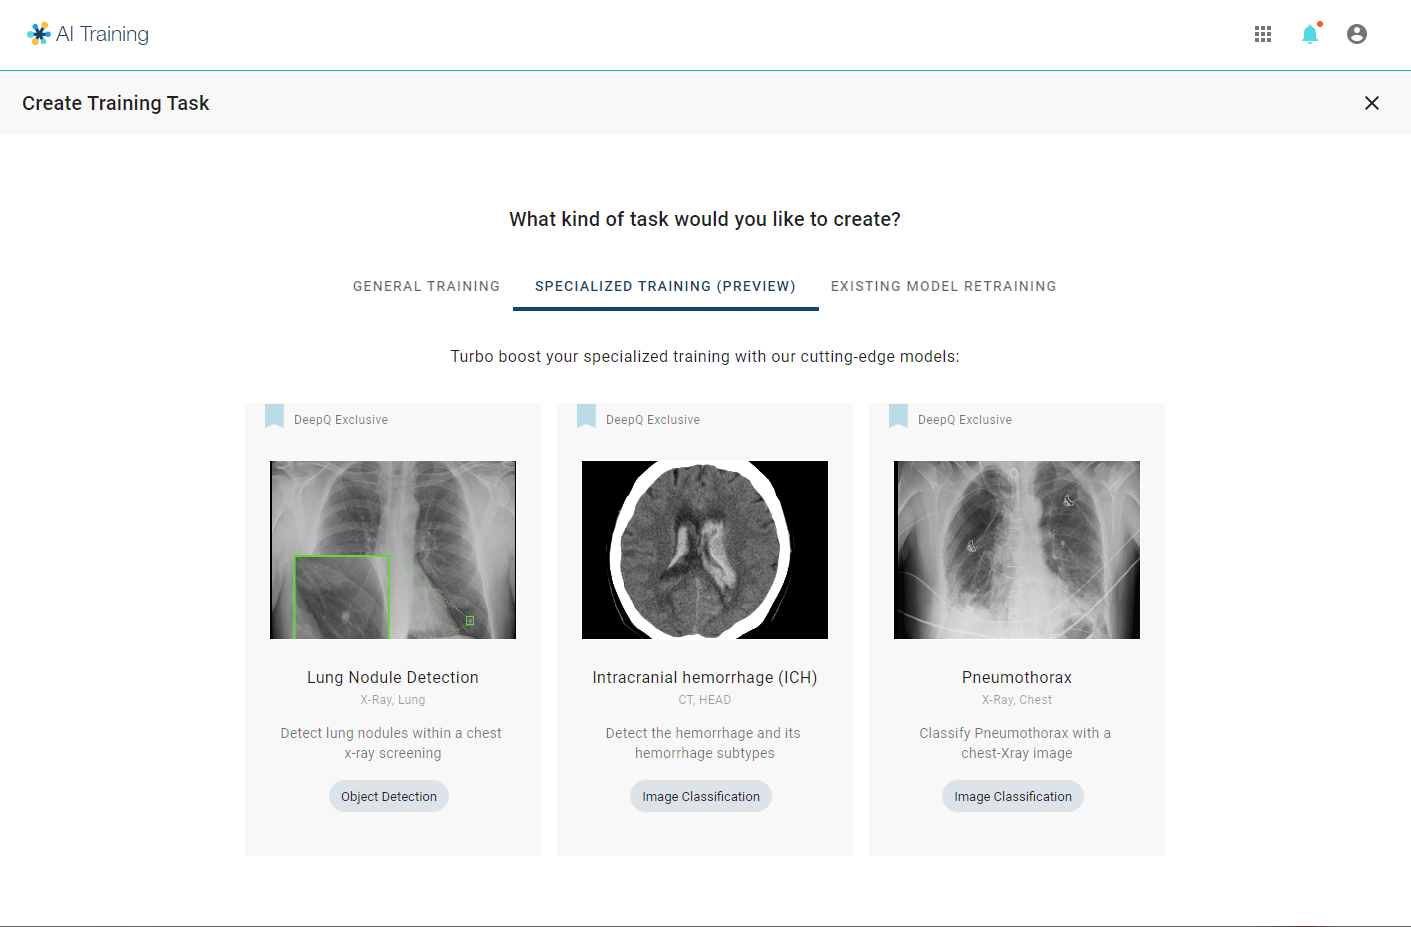
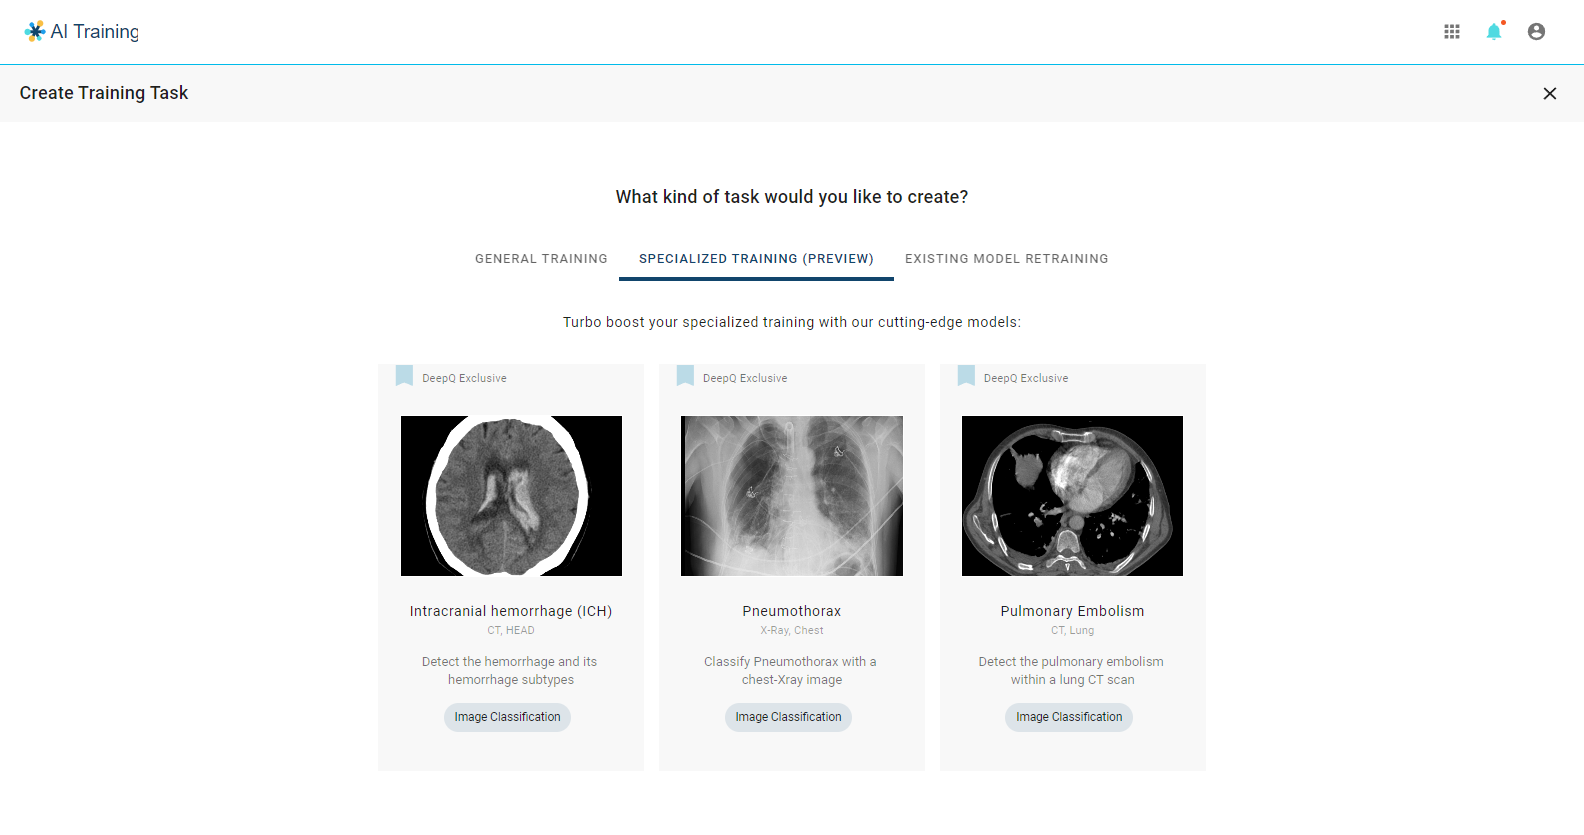
GITBOOK-30: change request with no subject merged in GitBook

diff --git a/account-management/create-training-tasks/README.md b/account-management/create-training-tasks/README.md
@@ -3,7 +3,7 @@
 Clicking on the "**CREATE NEW TASK**" tab leads you to selecting one of the training task flows:
 
 1. **General Training**：To train an AI model of any topic based on the user's choice
-2. **Specialized training**：To train an AI for a specific topic using the presets on DeepQ AI Platform
+2. **Specialized training**：To train an AI for a specific topic using the presets and will only need a few quality data (\~100 cases) to obtain good training results.&#x20;
 3. **Existing Model Retraining**：Using the user's previously trained AI model as a starting point to start a new training task.
 
 <mark style="color:yellow;">Tutorial Video:</mark><img src="../../.gitbook/assets/video-icon-small.jpg" alt="" data-size="line"> [#video-create-training-task](../../tutorial-videos/model-training-inference.md#video-create-training-task "mention")
@@ -24,9 +24,15 @@ The first step of general training is to select the task type: image classificat
 
 ### Specialized Training
 
-With specialzed training, the user may choose from various topics that has been prepared by DeepQ
+With specialzed training, the user may choose from the tasks that has been prepared by DeepQ
 
 <figure><img src="../../.gitbook/assets/con-4-1-2-2.3.png" alt=""><figcaption></figcaption></figure>
+
+|                             | Task type                       | Image format              | Classes                                                                                                                                          |
+| --------------------------- | ------------------------------- | ------------------------- | ------------------------------------------------------------------------------------------------------------------------------------------------ |
+| **Intracranial Hemmorhage** | Multi-Label Classification (5)  | Head CT , non-contrast    | <p>>Subarachnoid hemorrhage  >Subdural hemorrhage <br>>Epidural hemorrhage <br>>Intraparenchymal hemorrhage <br>>Intraventricular hemorrhage</p> |
+| **Pneumothorax**            | Single Label Classification (2) | Chest X-ray               | <p>>PTX<br>>normal</p>                                                                                                                           |
+| **Pulmonary Embolism**      | Single Label Classification (2) | Chest CT with contrast IV | <p>>PE<br>>normal</p>                                                                                                                            |
 
 ### Existing Model Retraining
 
